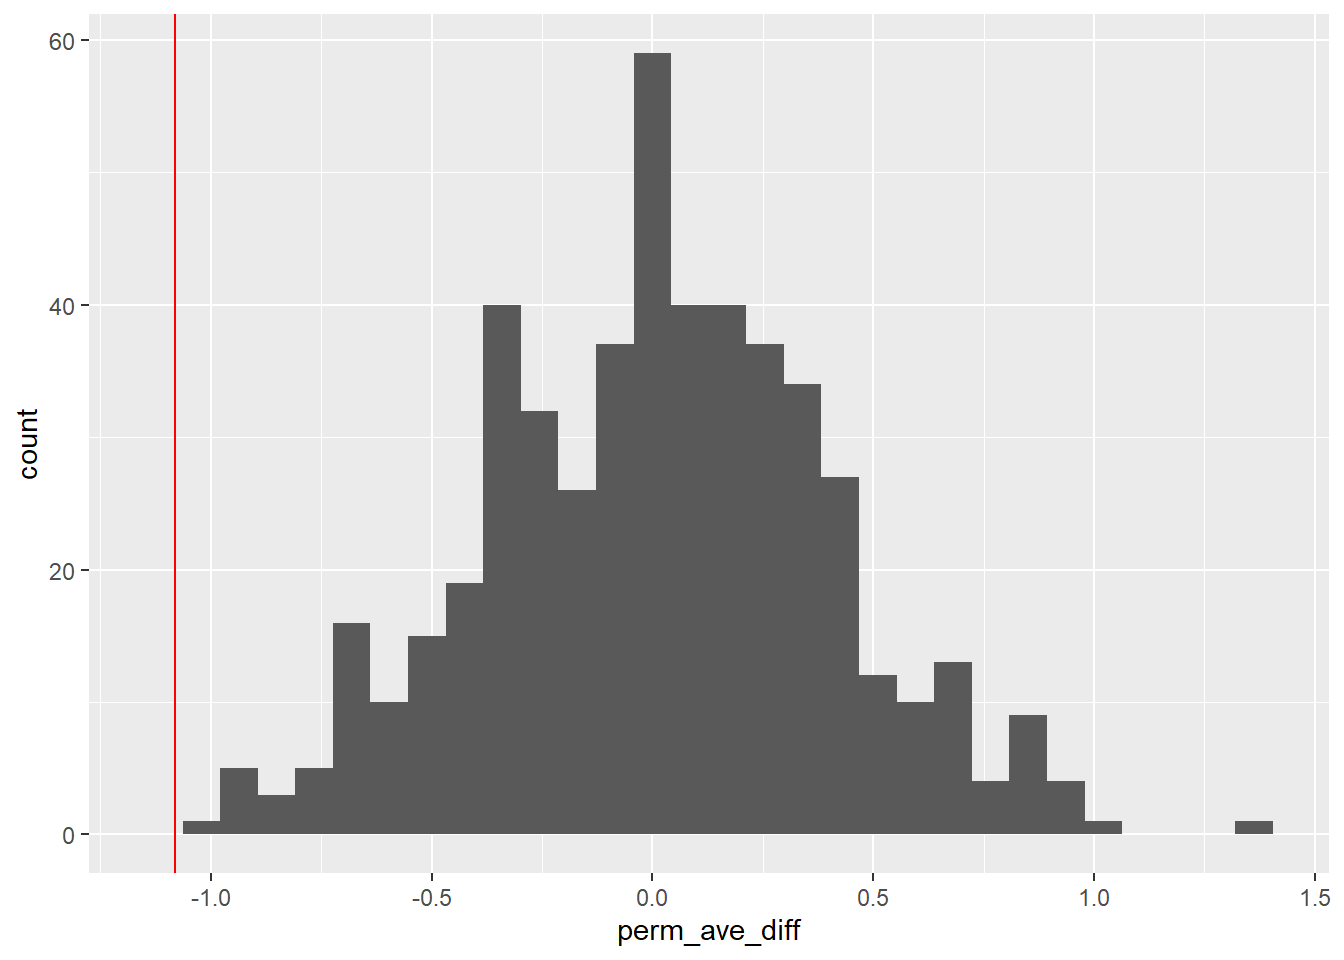
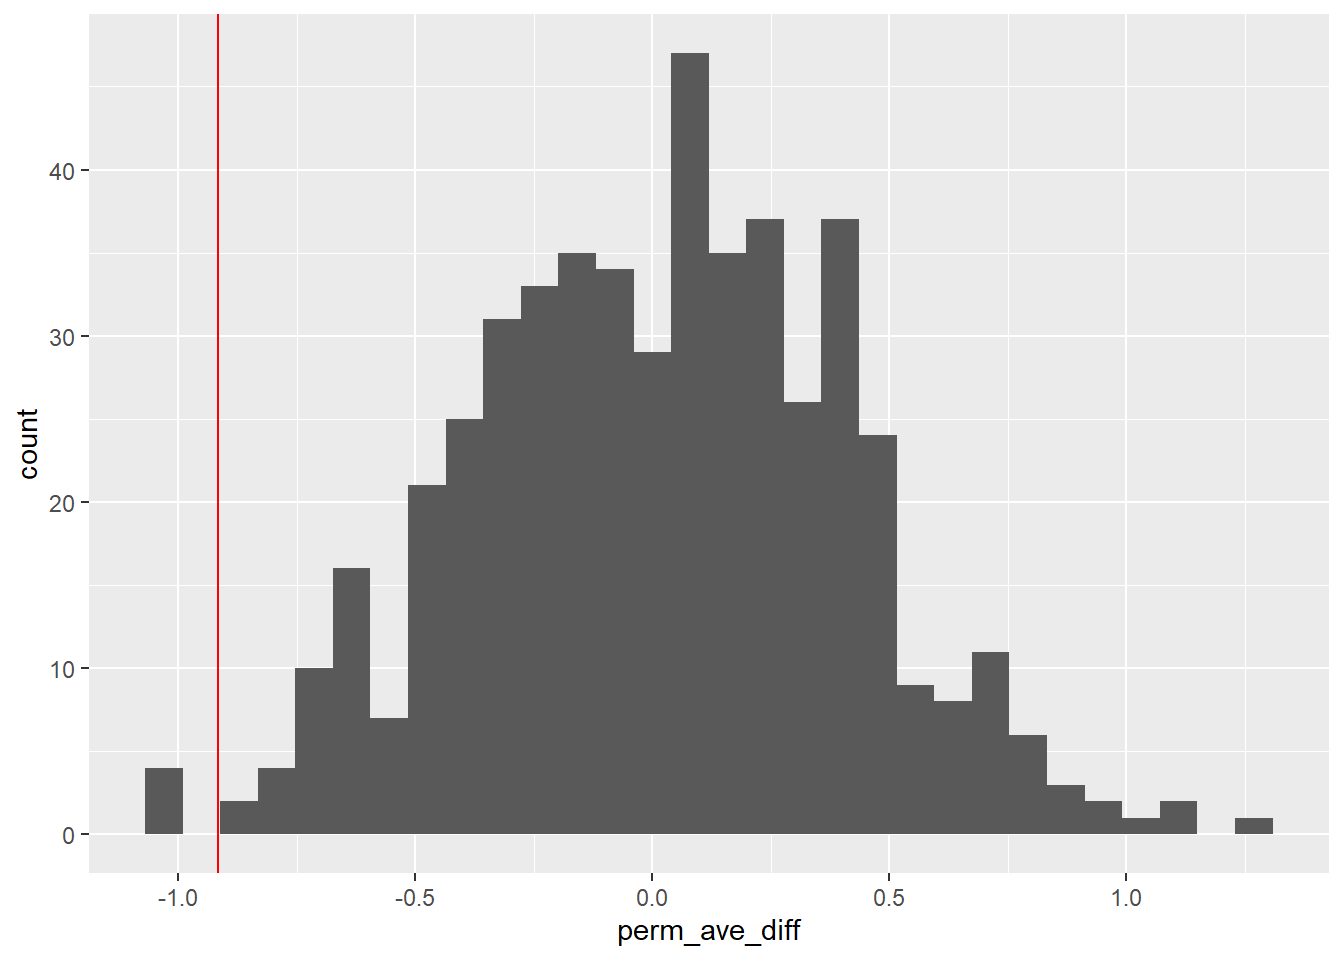
perms are done I think!

diff --git a/docs/Project3.html b/docs/Project3.html
@@ -366,9 +366,9 @@ pre > code.sourceCode > span > a:first-child::before { text-decoration: underlin
 <div class="cell">
 <div class="cell-output cell-output-stdout">
 <pre><code># A tibble: 1 × 1
-  p_val_ave
-      &lt;dbl&gt;
-1         1</code></pre>
+  p_val_two_sided
+            &lt;dbl&gt;
+1               0</code></pre>
 </div>
 </div>
 <p>Null Hypothesis: Language switching has no effect on restudy learning performance</p>
@@ -387,9 +387,9 @@ pre > code.sourceCode > span > a:first-child::before { text-decoration: underlin
 <div class="cell">
 <div class="cell-output cell-output-stdout">
 <pre><code># A tibble: 1 × 1
-  p_val_ave
-      &lt;dbl&gt;
-1     0.712</code></pre>
+  p_val_two_sided
+            &lt;dbl&gt;
+1           0.594</code></pre>
 </div>
 </div>
 <p>Null Hypothesis: Language switching has no effect on retrieval learning performance</p>
@@ -408,9 +408,9 @@ pre > code.sourceCode > span > a:first-child::before { text-decoration: underlin
 <div class="cell">
 <div class="cell-output cell-output-stdout">
 <pre><code># A tibble: 1 × 1
-  p_val_ave
-      &lt;dbl&gt;
-1         1</code></pre>
+  p_val_two_sided
+            &lt;dbl&gt;
+1               0</code></pre>
 </div>
 </div>
 <p>Null Hypothesis: The timing of a language switch has no impact on learning performance</p>
@@ -429,21 +429,11 @@ pre > code.sourceCode > span > a:first-child::before { text-decoration: underlin
 <div class="cell">
 <div class="cell-output cell-output-stdout">
 <pre><code># A tibble: 1 × 1
-  p_val_ave
-      &lt;dbl&gt;
-1         1</code></pre>
+  p_val_two_sided
+            &lt;dbl&gt;
+1            0.02</code></pre>
 </div>
 </div>
-<p>For Project 3 you will conduct a small simulation study that does one of the following:</p>
-<ul>
-<li><p>conducts a permutation test by simulating behavior under the null hypothesis (you will need to find a dataset and develop a related research question). Please include the full context of the problem. That is, what are the variables and why is testing them interesting? Include a visualization of the original data / variables of interest so that the reader can sense the extent of difference in the original relationship. Also include a conlcusion (which will naturally describe the population to which you are inferring).</p></li>
-<li><p>develops a lineup protocol for visual inference, as in “Bringing Visual Inference to the Classroom”, (you’ll need to write the function to do the mapping. The ggplot part will be straightforward using faceting.). That is, you will use a dataset, with a related research question, and test the research question using a series of null plots.</p></li>
-<li><p>calculates a probability which is not trivial to estimate without a simulation. For example, simulate room draw!</p></li>
-<li><p>(needs some background in introductory statistics) investigates the effects of condition violations on a statistical test, as measured by coverage rate, confidence interval width, type I error rate, etc. That is, your simulation will generate data and assess how often the data reject the null hypothesis or how often the confidence interval captures the true parameter. I’m happy to help with the R code for the statistics on this one!</p></li>
-</ul>
-<p>Your simulation study should contain the following elements:</p>
-<p>at least 1 function you’ve written at least 1 map() variant a description of the simulation. Help the reader follow what you are doing, that is, what does your function do? why would you map it? etc. at least 1 illustrative, well-labeled plot a description of what insights can be gained from your plot(s) Logistics:</p>
-<p>start by describing what you plan to do (3-4 sentences). end with a description of what you did (3-4 sentences). That is, use words to guide the reader through your analysis. please include all your code used in the analysis (but feel free to use code folding1). make sure that all graphs are well-labeled (including x and y axes, title of the graph, and accurate and succinct labels for color and fill). do not include error or warning messages (see HW YAML for code). include a few sentences describing each of your plots or tables. That is, tell the reader what they see when they look at the plot. Your narrative description should be in the text part of the qmd file, not as a comment in an R chunk. if you used data, include the source of the data. Include both where you got the data (e.g., the TidyTuesday URL) and also the original provenance of the information. if you are working with a (local) copy of the .csv file (as opposed to, for example, a link to the dataset on TidyTuesday’s GitHub site), then the .csv file should live in your GitHub repository for your website. And you should read the data in from that local copy. That is, the dataset should not live in your Downloads. Timeline Project 3 must be submitted on Canvas (not Gradescope) by 11:59 PM on Thursday October 30, 2025. You will add a tab to your Quarto webpage and submit the new page’s URL. Remember, you should continue to work in your website Rproj. Do not start a new R Project.</p>
 <p>Green, D. W., &amp; Abutalebi, J. (2013). Language control in bilinguals: The adaptive control hypothesis. Journal of Cognitive Psychology, 25(5), 515–530.<a href="https://doi.org/10.1080/20445911.2013.796377" class="uri">https://doi.org/10.1080/20445911.2013.796377</a></p>
 <p>Wußing, M., Grabner, R. H., Sommer, H., &amp; Saalbach, H. (2023). Language-switching and retrieval-based learning: An unfavorable combination. Frontiers in Psychology, 14. https://doi.org/10.3389/fpsyg.2023.1198117</p>
 

diff --git a/docs/index.html b/docs/index.html
@@ -98,7 +98,7 @@ ul.task-list li input[type="checkbox"] {
   </li>  
   <li class="nav-item">
     <a class="nav-link" href="./Project3.html"> 
-<span class="menu-text">Content and Language Integrated-Learning and Cognition</span></a>
+<span class="menu-text">CLIL</span></a>
   </li>  
   <li class="nav-item dropdown ">
     <a class="nav-link dropdown-toggle" href="#" id="nav-menu-data-viz" role="link" data-bs-toggle="dropdown" aria-expanded="false">
